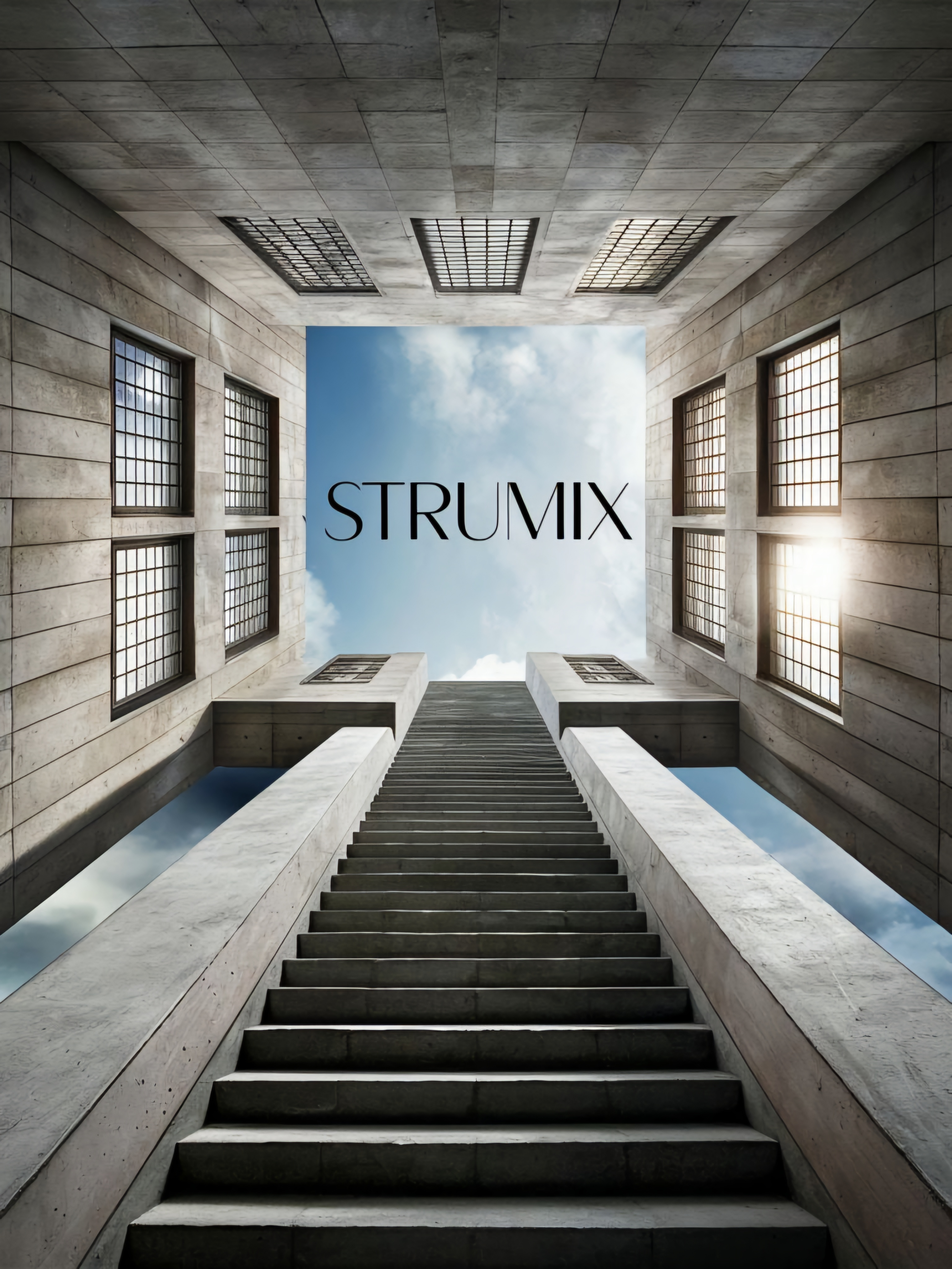
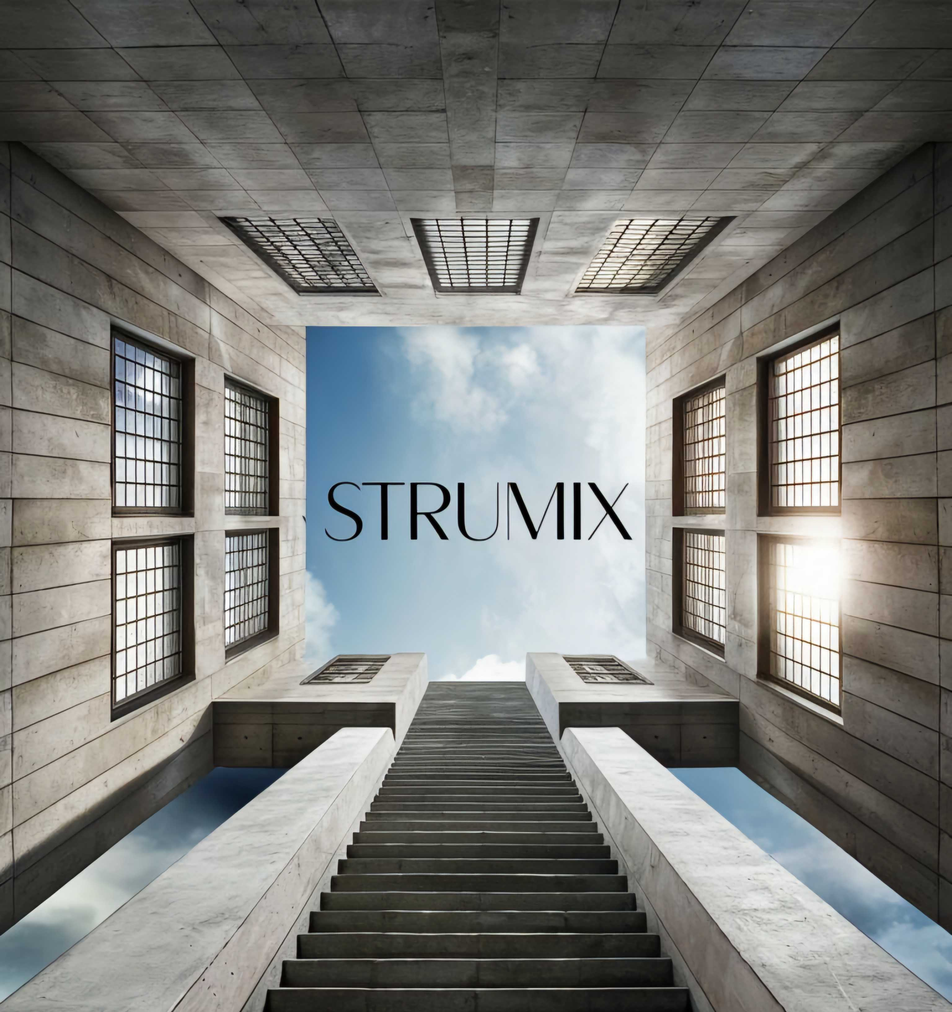
Add Sticky Scroll Animation for Home(index)

diff --git a/index.html b/index.html
@@ -4,6 +4,13 @@
     <meta charset="UTF-8" />
     <meta name="viewport" content="width=device-width, initial-scale=1.0" />
     <title>Document</title>
+
+    <script src="https://cdnjs.cloudflare.com/ajax/libs/jquery/2.1.3/jquery.min.js"></script>
+    <script src="https://cdnjs.cloudflare.com/ajax/libs/gsap/3.12.2/gsap.min.js"></script>
+    <script src="https://cdnjs.cloudflare.com/ajax/libs/gsap/3.12.2/ScrollTrigger.min.js"></script>
+    <script src="https://cdn.glitch.global/8352fc0e-bebe-4680-ae0b-269da8b54259/ScrollSmoother.min.js"></script>
+    <script src="https://cdn.glitch.global/8352fc0e-bebe-4680-ae0b-269da8b54259/SplitText.min.js"></script>
+
     <link rel="stylesheet" href="src/css/main.css" />
     <style>
       .hero {
@@ -11,23 +18,113 @@
         display: flex;
         justify-content: center;
         align-items: center;
+        background: #f2ecdc;
       }
       .section2 {
         display: flex;
         justify-content: center;
+        background: #f2ecdc;
       }
 
       .section2 img {
-        object-fit: contain;
+        object-fit: cover;
+        object-position: center;
         width: 70%;
-        border-radius: 4vmin;
+        height: 100vh;
+        border-radius: 5vmin 5vmin 0 0;
+      }
+      .section3 {
+        background: #0f0f0f;
+        height: 100vh;
+        border-radius: 5vmin 5vmin 0 0;
+      }
+      .section4 {
+        background: #cca63f;
+        height: 100vh;
+        border-radius: 5vmin 5vmin 0 0;
       }
     </style>
   </head>
   <body>
-    <section class="hero">strumix</section>
-    <section class="section2">
-      <img src="assets/img/Strumix.jpg" alt="Strumix" />
-    </section>
+    <main id="smooth-wrapper">
+      <div id="smooth-content">
+        <section class="hero">strumix</section>
+        <section class="section2">
+          <img src="assets/img/Strumix.jpg" alt="Strumix" />
+        </section>
+        <section class="section3">Lorem ipsum dolor sit</section>
+        <section class="section4">Lorem ipsum dolor sit</section>
+        <section class="NuNStickyContainer">Lorem ipsum dolor sit</section>
+      </div>
+    </main>
   </body>
+  <script>
+    gsap.registerPlugin(ScrollTrigger, ScrollSmoother, SplitText);
+
+    window.addEventListener("load", (event) => {
+      ScrollSmoother.create({
+        wrapper: "#smooth-wrapper",
+        contect: "#smooth-content",
+        smooth: 1,
+        effects: true,
+        smoothTouch: false,
+      });
+    });
+    gsap.to(".section2 img", {
+      scrollTrigger: {
+        trigger: ".section2 img",
+        start: "top 90%",
+        end: "bottom 90%",
+        scrub: 2,
+        markers: true,
+      },
+      width: "100%",
+      duration: 1,
+    });
+
+    gsap.to(".section2", {
+      scrollTrigger: {
+        trigger: ".section2",
+        start: "top top",
+        pin: true,
+        pinSpacing: false,
+      },
+    });
+    gsap.to(".section3", {
+      scrollTrigger: {
+        trigger: ".section3",
+        start: "top top",
+        pin: true,
+        pinSpacing: false,
+      },
+    });
+    gsap.to(".section4", {
+      scrollTrigger: {
+        trigger: ".section4",
+        start: "top top",
+        pin: true,
+        pinSpacing: false,
+      },
+    });
+    gsap.to(".NuNStickyContainer", {
+      scrollTrigger: {
+        trigger: ".NuNStickyContainer",
+        start: "top top",
+        pin: true,
+        pinSpacing: false,
+      },
+    });
+
+    ScrollTrigger.create({
+      snap: {
+        snapTo: (progress, self) => {
+          let section2Start = ScrollTrigger.getById("section2").start,
+            section3Start = ScrollTrigger.getById("section3").start,
+            snapScroll = gsap.utils.snap([section2Start, section3Start], self.scroll());
+          return gsap.utils.normalize(0, ScrollTrigger.maxScroll(window), snapScroll);
+        },
+        duration: 0.5,
+      },
+    });
+  </script>
 </html>
